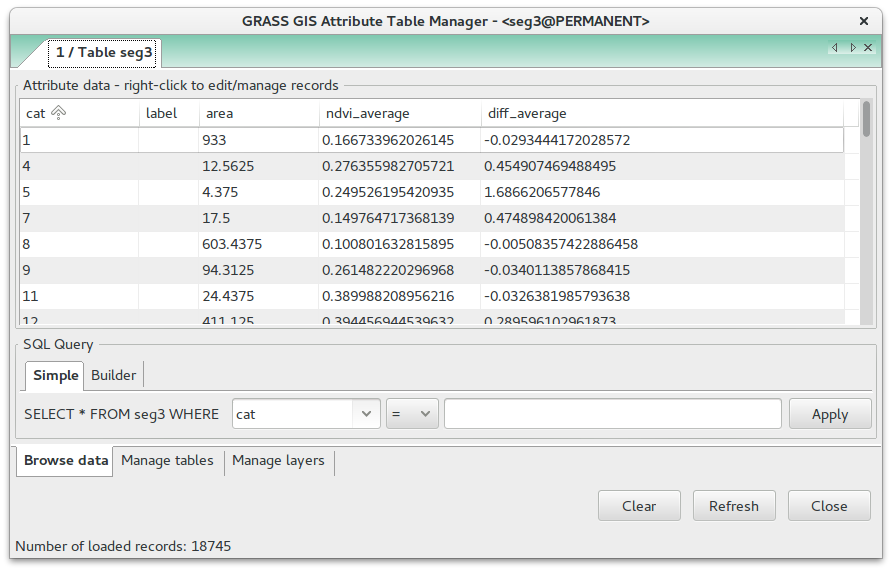
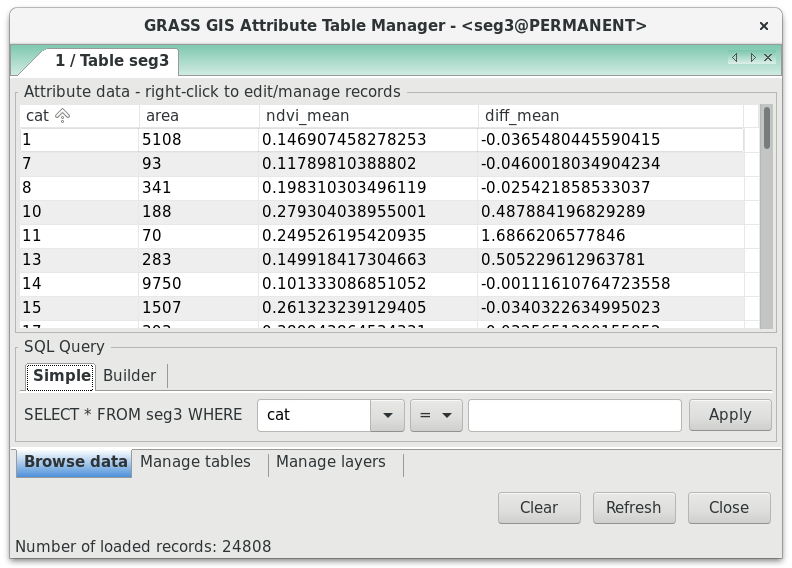
segmentace: kapitola dokoncena

Changed region(s): [[0.0, 0.0299, 1.0, 0.868], [0.6061, 0.838, 1.0, 0.9278], [0.0, 0.9278, 0.3333, 0.9877]]

diff --git a/zod/segmentace.rst b/zod/segmentace.rst
@@ -14,7 +14,9 @@ Vstupní data
   infračerveného spektra (NIR)
 * digitální model reliéfu (DMR) a povrchu (DMP)
 * stíny (shadows)
-    
+
+.. todo:: Najít otevřená data pro tuto úlohu.
+     
 Import dat
 ^^^^^^^^^^
 
@@ -27,19 +29,19 @@ případě jde o S-JTSK :epsg:`5514`).
 
 Vstupní data naimportujeme do mapsetu PERMANENT, viz
 :skoleni:`poznámky k importu rastrových dat
-<grass-gis-zacatecnik/data/import.html#rastrova-data>` ve školení pro
-začátečníky.
+<grass-gis-zacatecnik/data/import.html#rastrova-data>` ze školení
+GRASS GIS pro začátečníky.
 
 .. figure:: images/segment-import.png
 
    Ukázka importu vstupních dat.
 
-.. note:: RGB snímek se po importu rozpadne na tři rastrové mapy (viz.
-   :map:`rgb.1`, :map:`rgb.2` a :map:`rgb.3`), současně
-   jsou tyto vrstvy registrovány v obrazové skupině :map:`rgb`,
-   viz příkaz :grassCmd:`i.group`. Jednotlivé obrazové kanály
-   lze složit do barevné kompozice příkazem :grassCmd:`d.rgb`,
-   viz :skoleni:`vizualizace dat
+.. note:: RGB snímek se po importu rozpadne na tři rastrové mapy
+   (:map:`rgb.1`, :map:`rgb.2` a :map:`rgb.3`), které jsou
+   registrovány v obrazové skupině :map:`rgb`, viz příkaz
+   :grassCmd:`i.group`. Jednotlivé obrazové kanály lze složit do
+   barevné kompozice příkazem :grassCmd:`d.rgb`, viz
+   :skoleni:`vizualizace dat
    <grass-gis-zacatecnik/intro/zobrazeni-geodat.html#rastrova-data>`.
 
    .. figure:: images/segment-rgb.png
@@ -48,8 +50,8 @@ začátečníky.
       Ukázka vizualizace vstupních dat, složení barevné syntézy v
       pravých (skutečných) barvách.
 
-Segmentace obrazu
------------------
+Proces segmentace obrazu
+------------------------
 
 Do segmentace obrazu bude vstupovat kromě pásem viditelného spektra
 (:map:`rgb.1`, :map:`rgb.2` a :map:`rgb.3`) také pásmo blízkého
@@ -65,10 +67,10 @@ groups --> Create/edit group` anebo jako příkaz :grassCmd:`i.group`.
    (:fignote:`1`) a přidání rastrových map do skupiny (:fignote:`2`).
 
 .. important:: Před dalším výpočtem je nutné nastavit korektní
-   :skoleni:`výpočetní region
-   <grass-gis-zacatecnik/intro/region.html>`. Vzhledem k tomu, že mají
+   *výpočetní region* (viz školení :skoleni:`GRASS GIS pro začátečníky
+   <grass-gis-zacatecnik/intro/region.html>`). Vzhledem k tomu, že mají
    vstupní vrstvy RGB a NIR stejné prostorové umístění a rozlišení,
-   zvolíme jednu z nich, např. :map:`nir`.
+   stačí zvolit libovolnou vrstvu, např. :map:`nir`.
 
    .. figure:: images/segment-region.png
       :class: small
@@ -95,7 +97,7 @@ zmenší, viz :num:`segment-1-2`.
 
 .. figure:: images/segment-1-2.png
 
-   Porovnání objektů vzniklých po prvním a druhém běhu.
+   Porovnání objektů vzniklých po prvním a druhém běhu segmentace obrazu.
           
 Ve třetím kroku zvýšíme práh na hodnotu 0.09 a zároveň nastavíme
 minimální počet pixelů, které formují objekt na 15. Výsledek
@@ -149,12 +151,12 @@ Filtrace objektů
 ----------------         
 
 Jako podkladové vrstvy pro filtraci objektů využijeme vrstvu
-normalizovaného diferečního vegetačního indexu (NDVI) vypočteného z vrstev
-červeného (:map:`rgb.1`) a blízkého infračerveného (:map:`nir`) pásma
-viz. :doc:`návod na jeho výpočet <../skripty/ndvi>`. Produkt NDVI
-můžeme vytvořit univerzálním nástrojem :skoleni:`mapové albegry
-<grass-gis-zacatecnik/rastrova_data/rastrova-algebra.html>`
-:grassCmd:`r.mapcalc` anebo přímo pomocí nástroje :grassCmd:`i.vi`.
+normalizovaného diferečního vegetačního indexu (NDVI) vypočteného z
+vrstev červeného (:map:`rgb.1`) a blízkého infračerveného (:map:`nir`)
+pásma viz. :doc:`návod na jeho výpočet <../skripty/ndvi>`. Produkt
+NDVI můžeme vytvořit univerzálním nástrojem :skoleni:`mapové albegry
+<grass-gis-zacatecnik/rastrova_data/rastrova-algebra.html>` anebo
+přímo pomocí nástroje :grassCmd:`i.vi`.
 
 .. code-block:: bash
 
@@ -164,11 +166,10 @@ můžeme vytvořit univerzálním nástrojem :skoleni:`mapové albegry
 
    Vrstva normalizovaného diferenčního vegetačního indexu.
 
-Dále pomocí nástroje :skoleni:`mapové albegry
+Dále pomocí nástroje :skoleni:`mapové albegry r.mapcalc
 <grass-gis-zacatecnik/rastrova_data/rastrova-algebra.html>`
-:grassCmd:`r.mapcalc` (:menuselection:`Raster --> Raster map
-calculator`) vypočteme rastrovou mapu rozdílu výšek digitalního modelu
-povrchu a terénu:
+(:menuselection:`Raster --> Raster map calculator`) vypočteme
+rastrovou mapu rozdílu výšek digitalního modelu povrchu a terénu:
 
 .. code-block:: bash
 
@@ -179,28 +180,50 @@ povrchu a terénu:
    Rastrová mapa rozdílu výšek digitálního modelu povrchu a terénu
    (tabulka barev: differences).
 
-Tyto dvě rastrové mapy použijeme pro výpočet zonální statistiky
-objektů pomocí modulu :grassCmd:`v.rast.stats` (:menuselection:`Vector
---> Update attributes --> Update area atributes from raster`). Ze
-statistických ukazatelů vybereme průměrnou hodnotu
-(:option:`method=average`).
+Statistiku objektů odvozenou z vrstev NDVI a rozdílu výšek určíme
+pomocí specializovaného modulu :grasscmdaddons:`i.segment.stats`.
 
 .. code-block:: bash
+                
+   i.segment.stats map=seg3 rasters=ndvi,diff raster_statistics=mean area_measures=area vectormap=seg3
 
-   v.rast.stats map=seg3 raster=ndvi column_prefix=ndvi method=average
-   v.rast.stats map=seg3 raster=diff column_prefix=diff method=average
+.. note:: Nástroj :grasscmdaddons:`i.segment.stats` není standardní
+          součástí systému GRASS, ale je distrubován jako
+          tzv. addons - rozšíření. Modul nainstalujeme z menu
+          :menuselection:`Settings --> Addons extensions --> Install
+          extensions from addons`.
 
+          .. figure:: images/segment-stats-install.png
+             :class: small
+             
+             Instalace nástroje i.segment.stats.
+
+          Modul :grasscmdaddons:`i.segment.stats` pro svůj běž
+          vyžaduje rozšíření :grasscmdaddons:`r.object.geometry`,
+          které je nutné nainstalovat taktéž.
+          
 .. figure:: images/segment-ndvi-diff.png
 
    Objekty s atributy průměrné hodnoty NDVI a rozdílu výšek.
-               
+
+.. note:: Namísto specializovaného modulu lze využít standardní nástroj
+          zonální statistiky :grassCmd:`v.rast.stats` (:menuselection:`Vector
+          --> Update attributes --> Update area atributes from raster`). Ze
+          statistických ukazatelů vybereme průměrnou hodnotu
+          (:option:`method=average`).
+
+          .. code-block:: bash
+
+             v.rast.stats map=seg3 raster=ndvi column_prefix=ndvi method=average
+             v.rast.stats map=seg3 raster=diff column_prefix=diff method=average
+
 Na základě těchto atributů můžeme provést jednoduchou klasifikaci objektů. Např.
 
 * budovy   
 
 ::
 
-   diff_average > 2.5 AND ndvi_average < 0.1
+   diff_mean > 2.5 AND ndvi_mean < 0.1
 
 Výběr objektů splňujících dané atributové podmínky můžeme provést pomocí
 :skoleni:`správce atributových dat
@@ -209,7 +232,7 @@ modulem :grassCmd:`v.extract`.
 
 .. code-block:: bash
 
-   v.extract input=seg3 where="diff_average > 2.5 AND ndvi_average < 0.1" output=budovy
+   v.extract input=seg3 where="diff_mean > 2.5 AND ndvi_mean < 0.1" output=budovy
 
 .. figure:: images/segment-budovy.png
 

diff --git a/zod/index.rst b/zod/index.rst
@@ -2,8 +2,9 @@
 Zpracování obrazových dat
 *************************
 
-Představení nástrojů systému GRASS pro zpracování obrazových
-dat. Funkcionalita vybraných nástrojů je prezentovana na vybraných
+Kapitola je zaměřena na představení nástrojů systému GRASS pro
+zpracování obrazových dat. Cílem není popis všech možností systému
+GRASS v této oblasti, ale prezentace funkcionality na vybraných
 úlohách.
 
 .. rubric:: Témata
